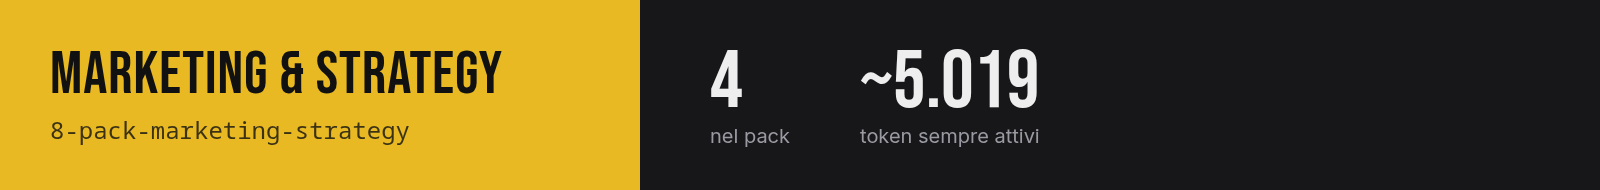
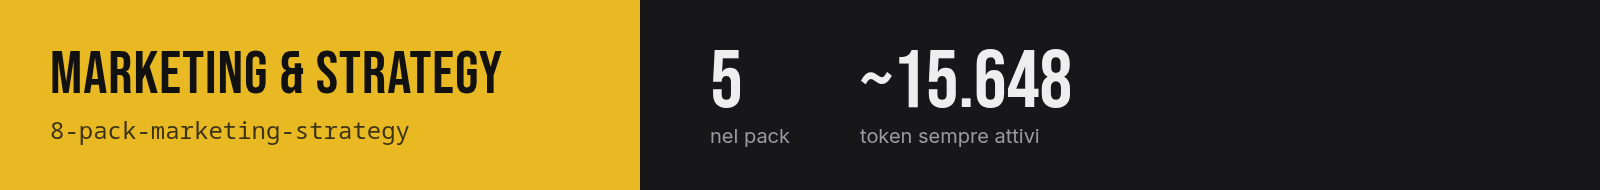
done

Changed region(s): [[0.5625, 0.2632, 0.6875, 0.5789], [0.4375, 0.2632, 0.4688, 0.5789]]

diff --git a/README.it.md b/README.it.md
@@ -60,8 +60,8 @@ Le voci sono di quattro tipi:
 | `4-pack-design-advanced` | 4 plugin | ~1.481 |
 | `5-pack-learning` | 4 plugin | ~1.648 |
 | `6-pack-research` | 4 plugin | ~1.214 |
-| `7-pack-content-creation` | 4 plugin | ~19.030 |
-| `8-pack-marketing-strategy` | 4 plugin | ~5.019 |
+| `7-pack-content-creation` | 4 plugin | ~8.578 |
+| `8-pack-marketing-strategy` | 5 plugin | ~15.648 |
 
 I plugin con tag `bonus` e i due plugin dei repo interi non fanno parte di nessun pack.
 
@@ -176,7 +176,7 @@ I plugin con tag `bonus` e i due plugin dei repo interi non fanno parte di nessu
 | [`openmontage`](https://github.com/calesthio/OpenMontage) | Produzione video agentica OpenMontage: le sue 91 skill. La pipeline completa richiede il progetto clonato | 91 skill | ~7.762 |
 | [`agent-reach`](https://github.com/Panniantong/Agent-Reach) | Permette all'agente di leggere e cercare su internet attraverso più piattaforme. Serve la CLI Agent-Reach | 1 skill | ~88 |
 | [`hyperframes`](https://github.com/heygen-com/hyperframes) | Scrivi HTML, renderizza video: tutte le skill HyperFrames in un solo bundle | 7 skill | ~551 |
-| [`marketing-skills`](https://github.com/coreyhaines31/marketingskills) | Skill di marketing: CRO, copywriting, SEO e altro | 52 skill | ~10.629 |
+| [`remotion`](https://github.com/remotion-dev/claude-code-plugin) | Remotion: video programmatici con React. Best practice, sottotitoli, rendering, studio e altro | 12 skill | ~177 |
 
 ### Marketing & Strategy
 
@@ -188,6 +188,7 @@ I plugin con tag `bonus` e i due plugin dei repo interi non fanno parte di nessu
 | [`seo-extensions`](https://github.com/AgriciDaniel/claude-seo/tree/HEAD/extensions) | Skill SEO opzionali per Ahrefs, Bing Webmaster, Firecrawl, Matomo, Profound, SE Ranking e Unlighthouse. Ognuna richiede il proprio account o la propria API key | 7 skill | ~414 |
 | [`marketing-cro`](https://github.com/wondelai/skills) | Framework di conversione e marketing: metodologia CRO, StoryBrand, Scorecard Marketing, Contagious, 1-Page Marketing Plan | 5 skill | ~788 |
 | [`sales-influence`](https://github.com/wondelai/skills) | Framework di vendita e persuasione: psicologia dell'influenza di Cialdini, Predictable Revenue, Made to Stick, $100M Offers | 4 skill | ~694 |
+| [`marketing-skills`](https://github.com/coreyhaines31/marketingskills) | Skill di marketing: CRO, copywriting, SEO e altro | 52 skill | ~10.629 |
 
 ## Prerequisiti
 
@@ -221,4 +222,4 @@ Nessuna sorgente è bloccata e nessun manifest imposta una `version`, quindi ogn
 
 ## Licenze
 
-Ogni plugin mantiene la licenza e gli autori originali. `openmontage` è AGPL-3.0, `education-agent-skills` è CC BY-SA 4.0 e `andrej-karpathy-skills` non ne dichiara una. Il contenuto originale di questo repo (manifest, server `camoufox`, skill `graphify`) è MIT.
+Ogni plugin mantiene la licenza e gli autori originali. `openmontage` è AGPL-3.0, `education-agent-skills` è CC BY-SA 4.0 e `andrej-karpathy-skills` non ne dichiara una. `remotion` è MIT come plugin, ma il framework Remotion ha una licenza propria: gratis per singoli e piccoli team, a pagamento per le aziende più grandi. Il contenuto originale di questo repo (manifest, server `camoufox`, skill `graphify`) è MIT.

diff --git a/README.md b/README.md
@@ -60,8 +60,8 @@ Entries come in four kinds:
 | `4-pack-design-advanced` | 4 plugins | ~1,481 |
 | `5-pack-learning` | 4 plugins | ~1,648 |
 | `6-pack-research` | 4 plugins | ~1,214 |
-| `7-pack-content-creation` | 4 plugins | ~19,030 |
-| `8-pack-marketing-strategy` | 4 plugins | ~5,019 |
+| `7-pack-content-creation` | 4 plugins | ~8,578 |
+| `8-pack-marketing-strategy` | 5 plugins | ~15,648 |
 
 Plugins tagged `bonus` and the two full-repo plugins belong to no pack.
 
@@ -176,7 +176,7 @@ Plugins tagged `bonus` and the two full-repo plugins belong to no pack.
 | [`openmontage`](https://github.com/calesthio/OpenMontage) | OpenMontage agentic video production: its 91 skills. The full pipeline needs the project cloned | 91 skills | ~7,762 |
 | [`agent-reach`](https://github.com/Panniantong/Agent-Reach) | Lets the agent read and search the internet across platforms. Needs the Agent-Reach CLI | 1 skill | ~88 |
 | [`hyperframes`](https://github.com/heygen-com/hyperframes) | Write HTML, render video: all HyperFrames skills in one bundle | 7 skills | ~551 |
-| [`marketing-skills`](https://github.com/coreyhaines31/marketingskills) | Marketing skills: CRO, copywriting, SEO and more | 52 skills | ~10,629 |
+| [`remotion`](https://github.com/remotion-dev/claude-code-plugin) | Remotion: programmatic videos with React. Best practices, captions, rendering, studio and more | 12 skills | ~177 |
 
 ### Marketing & Strategy
 
@@ -188,6 +188,7 @@ Plugins tagged `bonus` and the two full-repo plugins belong to no pack.
 | [`seo-extensions`](https://github.com/AgriciDaniel/claude-seo/tree/HEAD/extensions) | Optional SEO data skills for Ahrefs, Bing Webmaster, Firecrawl, Matomo, Profound, SE Ranking and Unlighthouse. Each needs its own account or API key | 7 skills | ~414 |
 | [`marketing-cro`](https://github.com/wondelai/skills) | Conversion and marketing frameworks: CRO methodology, StoryBrand, Scorecard Marketing, Contagious, 1-Page Marketing Plan | 5 skills | ~788 |
 | [`sales-influence`](https://github.com/wondelai/skills) | Sales and persuasion frameworks: Cialdini's influence psychology, Predictable Revenue, Made to Stick, $100M Offers | 4 skills | ~694 |
+| [`marketing-skills`](https://github.com/coreyhaines31/marketingskills) | Marketing skills: CRO, copywriting, SEO and more | 52 skills | ~10,629 |
 
 ## Prerequisites
 
@@ -221,4 +222,4 @@ No source is pinned and no manifest sets a `version`, so every upstream release 
 
 ## Licenses
 
-Each plugin keeps its upstream license and authors. `openmontage` is AGPL-3.0, `education-agent-skills` is CC BY-SA 4.0 and `andrej-karpathy-skills` declares none. The original content here (manifests, `camoufox` server, `graphify` skill) is MIT.
+Each plugin keeps its upstream license and authors. `openmontage` is AGPL-3.0, `education-agent-skills` is CC BY-SA 4.0 and `andrej-karpathy-skills` declares none. `remotion` is MIT as a plugin, but the Remotion framework has its own license: free for individuals and small teams, paid for larger companies. The original content here (manifests, `camoufox` server, `graphify` skill) is MIT.
